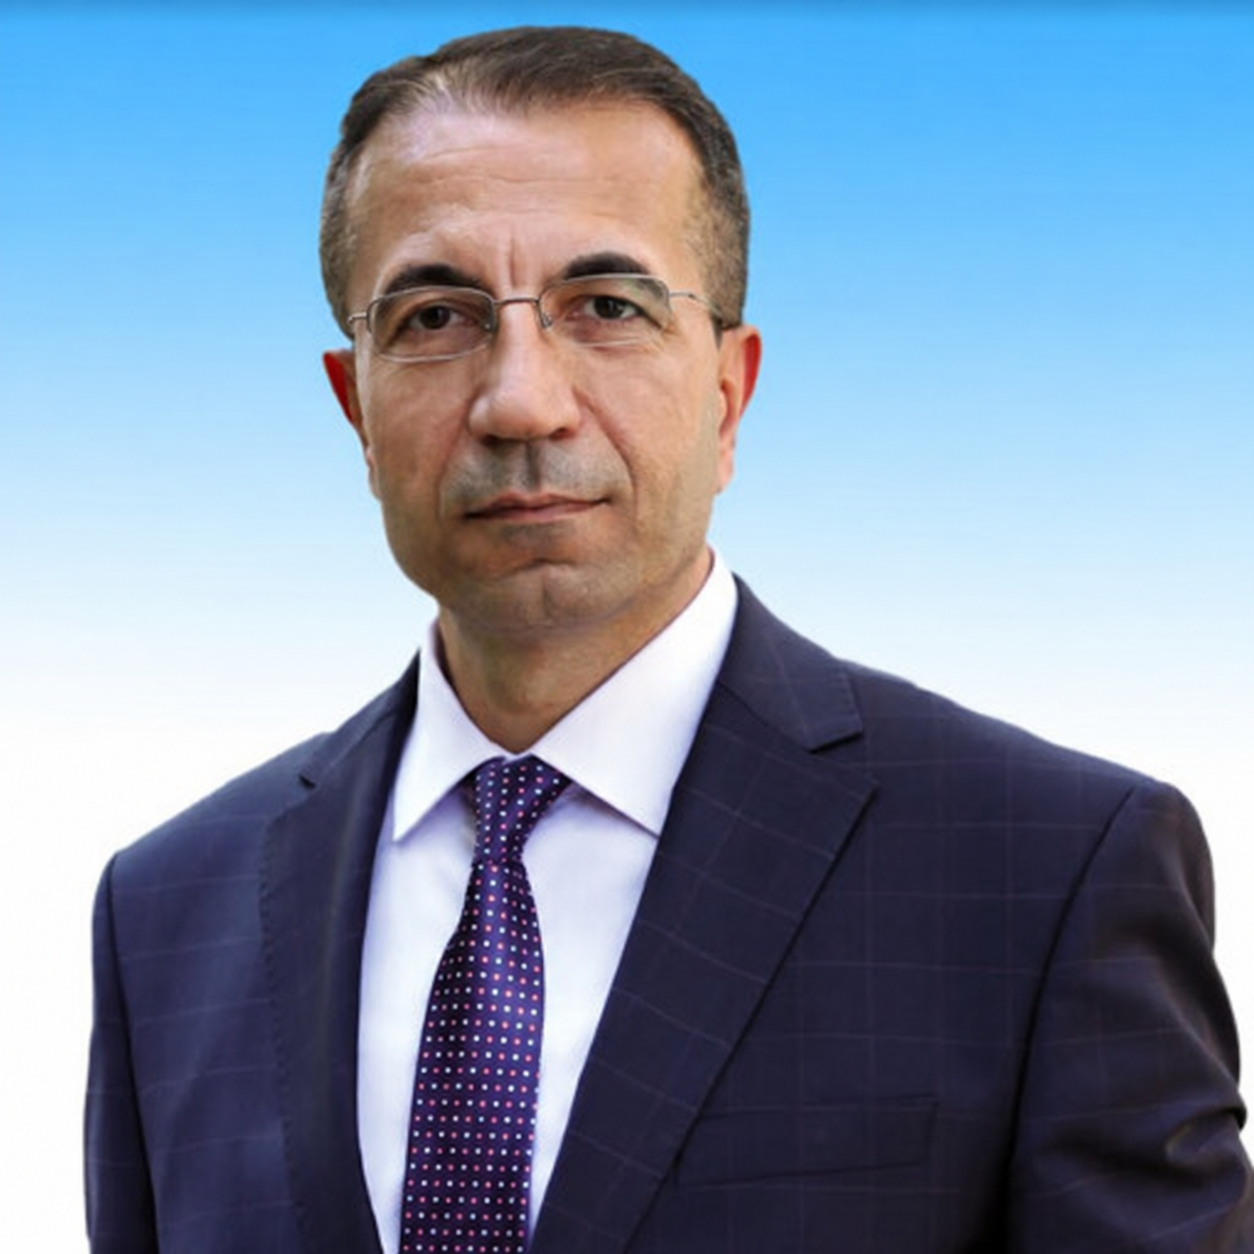
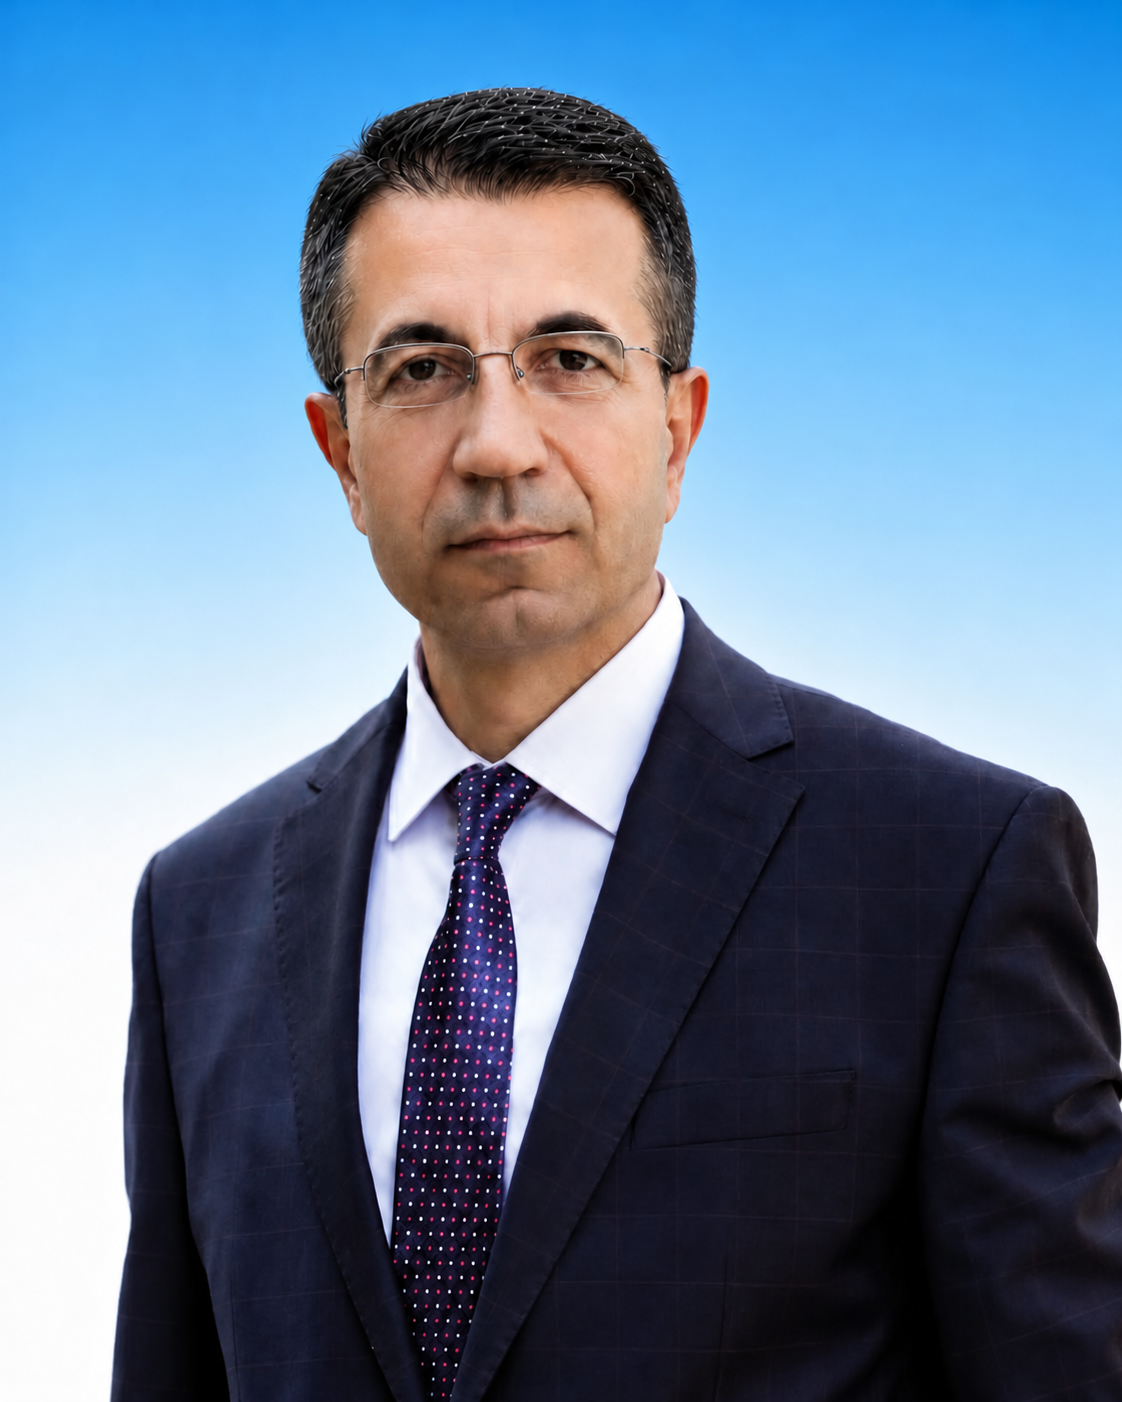
fix(speakers): correct Kadir Bektaş profile

diff --git a/src/components/Program.tsx b/src/components/Program.tsx
@@ -120,7 +120,7 @@ const day2: Session[] = [
     title: "Panel 4: Sanayide Hidrojen Kullanımı",
     moderator: "Prof. Dr. Abdullah Yıldız | AYBÜ Rektör Yardımcısı",
     speakers: [
-      "Doç. Dr. Abdülkadir Bektaş | UNFCCC Kıdemli Uzmanı (ERT) – Tarım, Enerji ve IPPU | Article 6 Teknik Uzmanı",
+      "Doç. Dr. Kadir Bektaş | UNFCCC Kıdemli Uzmanı (ERT) – Tarım, Enerji ve IPPU | Article 6 Teknik Uzmanı",
       "Serkan TÜRK | Türkiye Çimento Sanayicileri Birliği-AR-GE Enstitüsü Müdürü",
       "TBA",
       "TBA",

diff --git a/src/components/Speakers.tsx b/src/components/Speakers.tsx
@@ -193,10 +193,10 @@ const speakers: Speaker[] = [
     initials: "TBA",
   },
   {
-    name: "Doç. Dr. Abdülkadir Bektaş",
+    name: "Doç. Dr. Kadir Bektaş",
     role: "Panel 4 Konuşmacısı",
     affiliation: "UNFCCC Kıdemli Uzmanı (ERT) – Tarım, Enerji ve IPPU | Article 6 Teknik Uzmanı",
-    initials: "AB",
+    initials: "KB",
     photo: "/speakers/abdulkadir-bektas-portrait.png",
   },
   {
